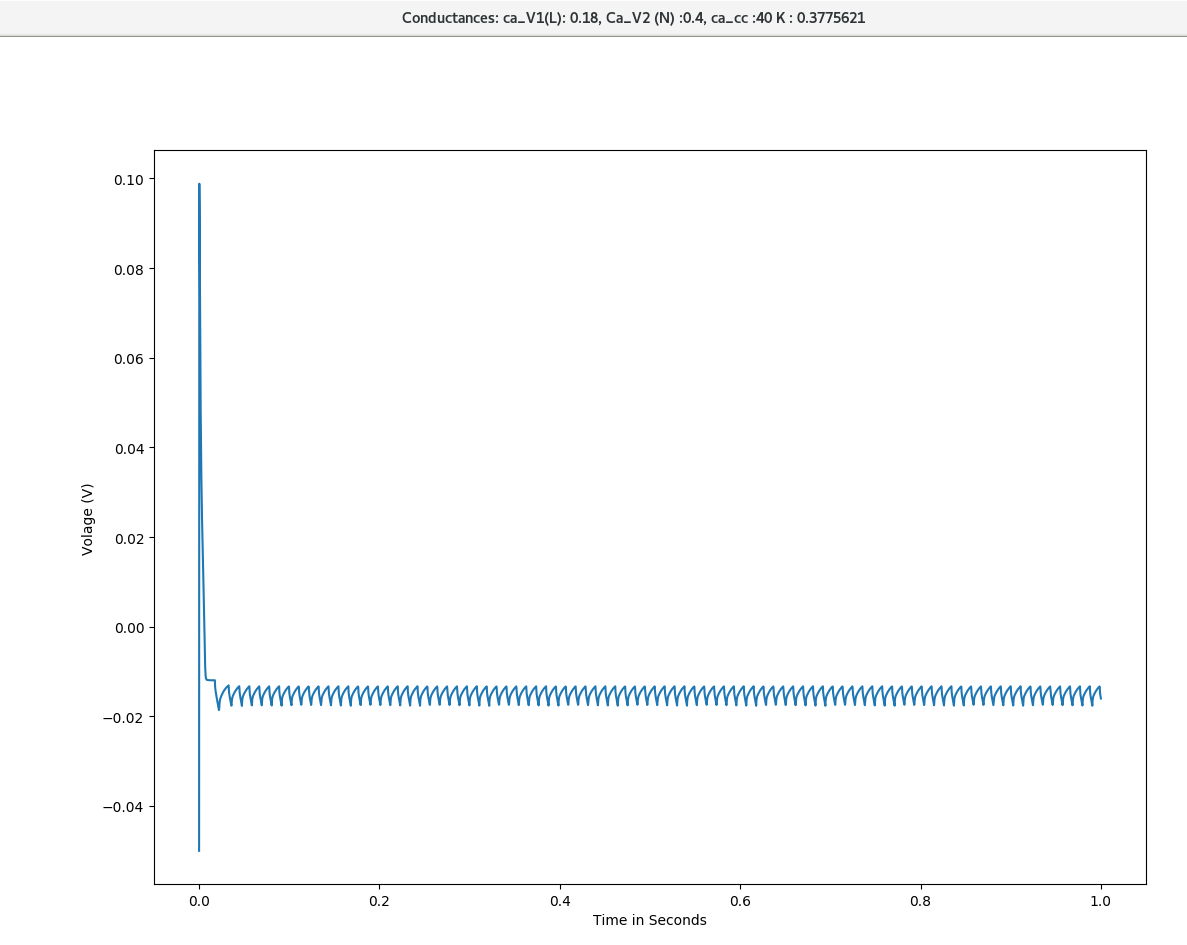
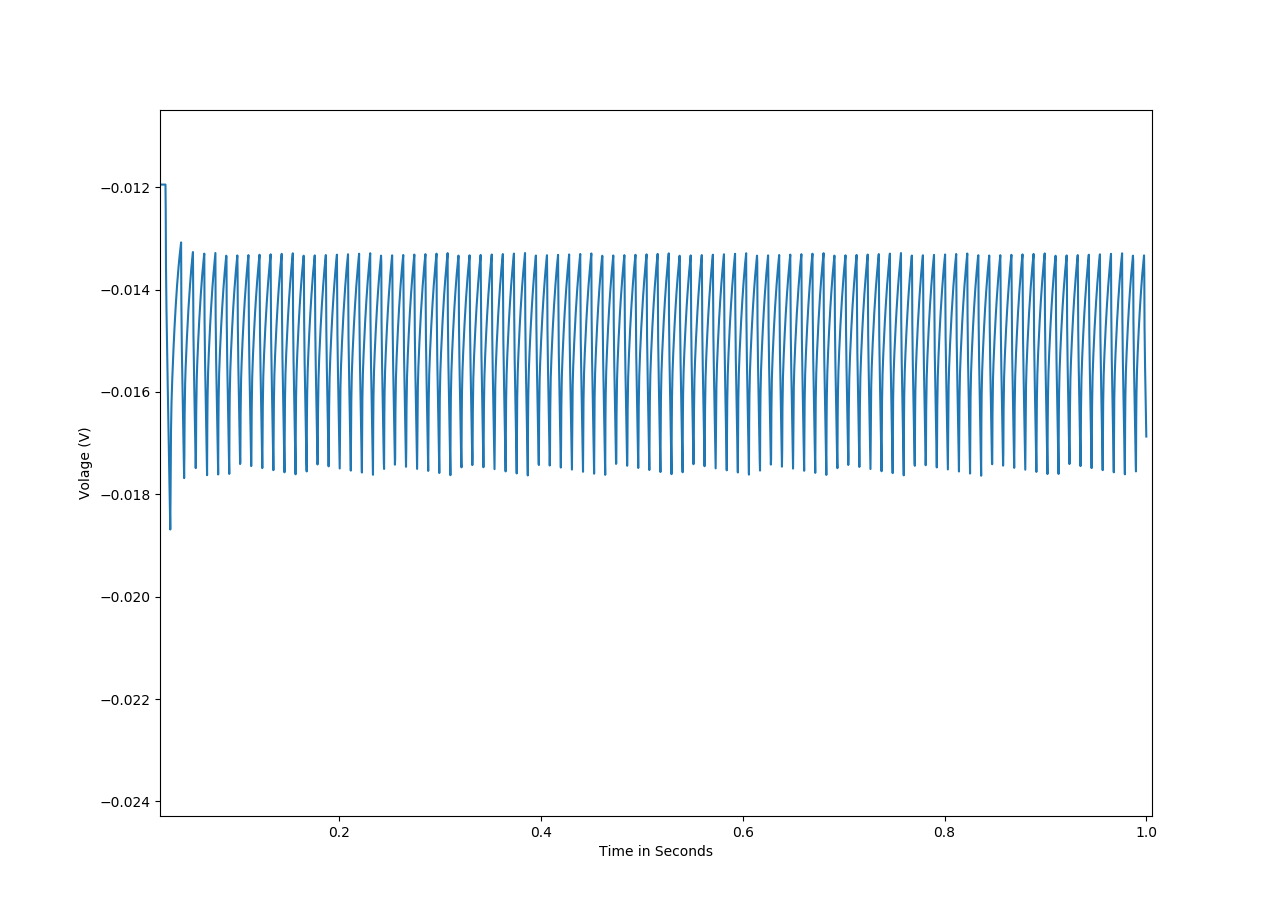
Code and images to submit. simple_model_chrp.py simple_model_p.py channels_p.py and channels_p_2.py Prepare paper with this as source code material.

diff --git a/NEUR634_homework/project/simple_model_p.py b/NEUR634_homework/project/simple_model_p.py
@@ -6,19 +6,20 @@
 import moose
 import numpy as np
 import matplotlib.pyplot as plt
-from utilities import create_comp_model
-from utilities import create_pulse_generator
-from utilities import create_output_table
-from utilities import plot_vm_table
-from utilities import create_set_of_channels
-from utilities import copy_connect_channel_moose_paths
+
+from utilities_p import create_output_table
+from utilities_p import plot_vm_table
+from utilities_p import create_set_of_channels
+from utilities_p import copy_connect_channel_moose_paths
 from utilities_p import create_ca_conc_pool
 from utilities_p import copy_ca_pools_moose_paths
 from utilities_p import connect_ca_pool_to_chan
 from channels_p import channel_settings
 from channels_p import ca_params
-from utilities import create_compartment
-from utilities import compute_comp_area
+from utilities_p import create_compartment
+from utilities_p import compute_comp_area
+
+
 
 VMIN = -90e-3
 VMAX = 120e-3
@@ -26,22 +27,6 @@ VDIVS = 3000
 CAMAX = 1
 CAMIN = 0
 CADIVS = 10E3
-
-def chirp(gen_name="chirp", amp=1, f0=1, f1=50, T=0.8, start=0.1, end=0.5, simdt=10E-5, phase=0, amp_offset=0):
-    chirper = moose.element('/chirpgen') if moose.exists('/chirpgen') else moose.Neutral('/chirpgen')
-    func_1 = moose.Func(chirper.path+'/'+gen_name)
-    func_1.mode = 3
-    func_1.expr = '{A}*cos(2*pi*({f1}-{f0})/{T}*x^2 + 2*pi*{f1}*x + {p})+{o}'.format(f0=f0, f1=f1, T=T, A=amp, p=phase, o=amp_offset)
-    input = moose.StimulusTable(chirper.path+'/xtab')
-    xarr = np.arange(start, end, simdt)
-    input.vector = xarr
-    input.startTime = 0.0
-    input.stepPosition = xarr[0]
-    input.stopTime = xarr[-1] - xarr[0]
-    moose.connect(input, 'output', func_1, 'xIn')
-    moose.useClock(0, '%s/##[TYPE=StimulusTable]' % (chirper.path), 'process')
-    moose.useClock(0,'%s/##[TYPE=Func]' % (chirper.path), 'process')
-    return func_1
 
 def simple_model(model_name, comp_passive, channel_settings, ca_params, length, diameter):
         # Simulation information.
@@ -104,7 +89,6 @@ def main(model_name, comp_passive, channel_settings, ca_params):
     # Simulation information.
     simtime = 1
     simdt = 0.25e-5
-    #simdt = 0.1e-6
     plotdt = 0.25e-3
 
     diameter = 20e-6
@@ -113,12 +97,9 @@ def main(model_name, comp_passive, channel_settings, ca_params):
 
     # Model creation
     soma, moose_paths = simple_model(model_name, comp_passive, channel_settings, ca_params, length, diameter)
-    # chirp_test = chirp(gen_name="chirp",amp=1E-9, f0=0.1, f1=500, T=0.8, start=inj_delay, end=inj_width+inj_delay, simdt=simdt,amp_offset=5E-9)
 
-    # moose.connect(chirp_test, 'valueOut', soma, 'injectMsg')
     # Output table
     tabs = creat_moose_tables()
-    # moose.connect(soma_i_table, 'requestOut', chirp_test, 'getValue')
 
     # Set moose simulation clocks
     for lable in range(7):
@@ -129,32 +110,11 @@ def main(model_name, comp_passive, channel_settings, ca_params):
     moose.reinit()
     moose.start(simtime)
 
-    # Plot output tables.
-    #v_plot = plot_vm_table(simtime,soma_v_table, soma_i_table, title="soma vs i")
-    #plt.grid(True)
-    #plt.legend(['v', 'i'])
-    #plt.show()
     from collections import namedtuple
     cond = namedtuple('cond', 'k Ltype Ntype cl')
     # Final execution test
-    # test_conductances = [cond(k=0.5E-3, Ltype=0.18E-3, Ntype=0.4E-3, cl=40E-3),  # control test
-    #                  cond(k=0.5E-3, Ltype=0.18E-3, Ntype=0, cl=40E-3),  # L-type frequecy reduce test
-    #                  cond(k=0.5E-3, Ltype=0, Ntype=0.4E-3, cl=40E-3),  # N-type amplitude reduce test
-    #                  cond(k=0.5E-3, Ltype=0.18E-3, Ntype=0.4E-3, cl=0),   # cl-type Current abolish test
-    #                  cond(k=0, Ltype=0.18E-3, Ntype=0.4E-3, cl=40E-3)    # K AHP reduce test
-    #                  ]
-    # Set to -15mv when cl current is blocked.
-    # test_conductances = [
-    #                  cond(k=0.5E-3*1E15, Ltype=0.18E-3, Ntype=0.4E-3, cl=0),   # cl-type Current abolish test
-    #                  ]
-    # Set to -15mv when cl current is blocked.
     test_conductances = [
-                #     cond(k=0.5E-3 * 0.5, Ltype=0.18E-6 * 10, Ntype=0.4E-5 * 11, cl=0),   # cl-type Current abolish test
-                     #cond(k=0.5E-3 , Ltype=0, Ntype=0.4E-5, cl=100E-3),   # cl-type Current abolish test
-                     # cond(k=0.5E-3, Ltype=0.18E-3, Ntype=0.4E-3, cl=40E-3),   # cl-type Current abolish test
-                     # cond(k=0.5, Ltype=0.18, Ntype=0.4, cl=40),   # cl-type Current abolish test
-                    # cond(k=0.5, Ltype=0.18, Ntype=0.4, cl=0),   # cl-type Current abolish test
-                     cond(k=0.3775621, Ltype=0.18, Ntype=0.4, cl=40),   # cl-type Current abolish test
+                     cond(k=0.3775621, Ltype=0.18, Ntype=0.4, cl=40),
                      ]
 
 
@@ -178,5 +138,5 @@ def main(model_name, comp_passive, channel_settings, ca_params):
 if __name__ == "__main__":
     model_name = 'soma'
     channel_settings = channel_settings
-    comp_passive = {'RM':1/(0.06), 'CM': 1,'RA':4, 'EM': -50e-3} # check with Dan????
+    comp_passive = {'RM':1/(0.06), 'CM': 1,'RA':4, 'EM': -50e-3}
     main(model_name, comp_passive, channel_settings, ca_params=ca_params)

diff --git a/NEUR634_homework/project/simple_model_chrp.py b/NEUR634_homework/project/simple_model_chrp.py
@@ -6,19 +6,19 @@
 import moose
 import numpy as np
 import matplotlib.pyplot as plt
-from utilities import create_comp_model
-from utilities import create_pulse_generator
-from utilities import create_output_table
-from utilities import plot_vm_table
-from utilities import create_set_of_channels
+from utilities_p import create_comp_model
+from utilities_p import create_pulse_generator
+from utilities_p import create_output_table
+from utilities_p import plot_vm_table
+from utilities_p import create_set_of_channels
 from channels_p_2 import channel_settings
 from channels_p_2 import ca_params
-from utilities import create_compartment
-from utilities import compute_comp_area
+from utilities_p import create_compartment
+from utilities_p import compute_comp_area
 from utilities_p import create_ca_conc_pool
 from utilities_p import copy_ca_pools_moose_paths
 from utilities_p import connect_ca_pool_to_chan
-from utilities import copy_connect_channel_moose_paths
+from utilities_p import copy_connect_channel_moose_paths
 
 EREST_ACT = -70e-3 #: Resting membrane potential ??? where in paper???
 VMIN = -30e-3 + EREST_ACT
@@ -111,14 +111,12 @@ def main(model_name, comp_passive, channel_settings, ca_params):
     length = 20e-6
 
     inj_delay = 20E-3
-    inj_amp = 5E-3 #0
-    inj_width = 500E-3
-
-
+    inj_amp = 0 # Pleace chirp amplitudes 2.5E-3 and 15E-3
+    inj_width = 1
 
     # Model creation
     soma, moose_paths = simple_model(model_name, comp_passive, channel_settings, ca_params, length, diameter)
-    chirp_test = chirp(gen_name="chirp",amp=inj_amp, f0=0.1, f1=20, T=0.1, start=inj_delay, end=inj_width+inj_delay, simdt=simdt,amp_offset=0)
+    chirp_test = chirp(gen_name="chirp",amp=inj_amp, f0=0.1, f1=40, T=1, start=inj_delay, end=inj_width+inj_delay, simdt=simdt,amp_offset=0)
     moose.connect(chirp_test, 'valueOut', soma, 'injectMsg')
     # Output table
     tabs = creat_moose_tables()
@@ -137,12 +135,7 @@ def main(model_name, comp_passive, channel_settings, ca_params):
     # set conductance for a list to Ca_v1, Ca_V2 and CC
     from collections import namedtuple
     cond = namedtuple('cond', 'k Ltype Ntype cl')
-    test_conductances = [cond(k=0.5, Ltype=0.18, Ntype=0.4, cl=40)]  # control test
-                         # cond(k=0.5E-3, Ltype=0.18E-3, Ntype=0, cl=40E-3),  # L-type frequecy reduce test
-                         # cond(k=0.5E-3, Ltype=0, Ntype=0.4E-3, cl=40E-3),  # N-type amplitude reduce test
-                         # cond(k=0.5E-3, Ltype=0.18E-3, Ntype=0.4E-3, cl=0),   # cl-type Current abolish test
-                         # cond(k=0.5E-3 * 0.2, Ltype=0.18E-3, Ntype=0.4E-3, cl=40E-3)    # K AHP reduce test
-                         # ]
+    test_conductances = [cond(k=0.3775621, Ltype=0.18, Ntype=0.4, cl=40),]
 
     for K, V1, V2, cc in test_conductances:
         moose.element('/soma/K').Gbar = K #* compute_comp_area(length, diameter)[0] *1E4
@@ -156,7 +149,10 @@ def main(model_name, comp_passive, channel_settings, ca_params):
         plt.show()
 
     # plot chirp signal
-    plt.plot(soma_c_table.vector)
+    t = np.arange(0, simtime, 1/len(soma_c_table.vector))
+    plt.plot(t, soma_c_table.vector)
+    plt.xlabel("time in seconds")
+    plt.ylabel("voltage (V)")
     plt.show()
 
     current_time_domain = soma_c_table.vector
@@ -168,37 +164,35 @@ def main(model_name, comp_passive, channel_settings, ca_params):
     voltage_magnitude = np.abs(voltage_fft)
     current_phase = np.angle(current_fft)
     voltage_phase = np.angle(voltage_fft)
-    freq_current = np.fft.fftfreq(len(current_fft), simdt)
-    freq_voltage = np.fft.fftfreq(len(voltage_fft), simdt)
-    plt.figure("chirp")
-    plt.subplot(211)
+    freq_current = np.fft.fftfreq(len(current_fft), 1/len(soma_c_table.vector))
+    freq_voltage = np.fft.fftfreq(len(voltage_fft), 1/len(soma_c_table.vector))
+    N = len(current_fft)
+    plt.figure("soma_current")
     plt.plot(freq_current, current_magnitude)
     plt.xlabel('Frequecy (Hz)')
     plt.ylabel('Magnitude (mA)')
-    plt.subplot(212)
+    plt.show()
+
+    plt.figure("membrane voltage")
     plt.plot(freq_voltage, voltage_magnitude)
     plt.xlabel('Frequecy (Hz)')
     plt.ylabel('Volts (V)')
-    plt.figure("membrane impedence")
-    plt.subplot(211)
+    plt.show()
+
+    plt.figure("membrane voltage")
     plt.plot(freq_voltage, voltage_magnitude/current_magnitude)
     plt.xlabel('Frequecy (Hz)')
     plt.ylabel('ohms ($\Omega$)')
+    plt.show()
+
     plt.title('membrance impedance')
-    plt.subplot(212)
     plt.plot(freq_voltage, voltage_phase - current_phase)
     plt.xlabel('Frequecy (Hz)')
     plt.ylabel('phase ($\Theta$)')
     plt.show()
 
-    # from moose_nerp.graph import plot_channel
-    # for channel in channel_settings:
-    #     libchan=moose.element('/library/soma/'+channel)
-    #     plot_channel.plot_gate_params(libchan,1,VMIN, VMAX, CAMIN, CAMAX)
-    # plt.show()
-
 if __name__ == "__main__":
     model_name = 'soma'
     channel_settings = channel_settings
-    comp_passive = {'RM':1/(0.06), 'CM': 1,'RA':4, 'EM': -50e-3} # check with Dan????
+    comp_passive = {'RM':1/(0.06), 'CM': 1,'RA':4, 'EM': -50e-3}
     main(model_name, comp_passive, channel_settings, ca_params=ca_params)

diff --git a/NEUR634_homework/project/channels_p_2.py b/NEUR634_homework/project/channels_p_2.py
@@ -4,6 +4,7 @@ from templates import channel_param_template
 from templates import capools
 from templates import CaDepparams
 
+# Old parameters used to setup alpha and beta parameters.
 K_n_params = AlphaBetaparams(
               A_A=1000, A_B=0.0, A_C=1.0, A_D=20E-3, A_F=-4e-3,
               B_A=1000, B_B=0.0, B_C=1.0, B_D=20E-3, B_F=4e-3)
@@ -16,42 +17,77 @@ ca_v2_params = AlphaBetaparams(
               A_A=1000, A_B=0.0, A_C=1.0, A_D=-10E-3, A_F=-15e-3,
               B_A=1000, B_B=0.0, B_C=1.0, B_D=-10E-3, B_F=15e-3)
 
-ca_cc_params = CaDepparams(kd=1E-3, power=2, tau=0.68E-2)
+ca_cc_params = CaDepparams(kd=1E-3, power=2, tau=0.68E-2) # After discussion.
+#Where is Kd, power and tau??
 ca_params = capools(caBasal=0, caThick=0.1E-6, caTau=20E-3, bufCapacity=10E4, caName='CaPool') #0.99E12
 ### ca_params = capools(caBasal=0, caThick=0.1E-6, caTau=20E-3, bufCapacity=10E4, caName='CaPool') #0.99E12 oscillation
+# CaThick, cabasal and tau of ca_cc leave default.
+# Tp = 200 ms, ka = 1000 uM, buf=0.6
+
+EREST_ACT = -70E-3
+Na_m_params = AlphaBetaparams(A_A=9738.024807333182,
+ A_B=0.0,
+ A_C=1,
+ A_D=0.04155939062329942,
+ A_F=-0.005,
+ B_A=9738.024807333182,
+ B_B=0.0,
+ B_C=1,
+ B_D=0.04155939062329942,
+ B_F=0.005)
+
+Na_h_params = AlphaBetaparams(A_A=2434.5062018332956,
+ A_B=0.0,
+ A_C=1,
+ A_D=0.07755939062329942,
+ A_F=0.009,
+ B_A=2434.5062018332956,
+ B_B=0.0,
+ B_C=1,
+ B_D=0.037559390623299424,
+ B_F=-0.005)
 
 k_chan = copy(channel_param_template)
 ca_v1_chan = copy(channel_param_template)
 ca_v2_chan = copy(channel_param_template)
 ca_cc_chan = copy(channel_param_template)
+Na_chan = copy(channel_param_template)
 
 k_chan['chan_name'] = 'K'
 k_chan['x_params'] = K_n_params
 k_chan['x_pow'] = 4
-k_chan['g_max'] = 0.5e-3 * 1/1E4 # This value is overridden in the main program.
+k_chan['g_max'] = 0.5e-3 * 1/1E4 # was 0
 k_chan['e_k'] = -90E-3
 
 ca_v1_chan['chan_name'] = 'Ca_V1'
 ca_v1_chan['x_params'] = ca_v1_params
 ca_v1_chan['x_pow'] = 1
-ca_v1_chan['g_max'] = 0.18E-3 * 1/1E4 # This value is overridden in the main program.
+ca_v1_chan['g_max'] = 0.18E-3 * 1/1E4
 ca_v1_chan['e_k'] = 100E-3
 ca_v1_chan['chan_type'] = 'ca_permeable'
 
 ca_v2_chan['chan_name'] = 'Ca_V2'
 ca_v2_chan['x_params'] = ca_v2_params
 ca_v2_chan['x_pow'] = 1
-ca_v2_chan['g_max'] = 0.4E-3 * 1/1E4 # This value is overridden in the main program.
+ca_v2_chan['g_max'] = 0.4E-3  * 1/1E4
 ca_v2_chan['e_k'] = 100E-3
 ca_v2_chan['chan_type'] = 'ca_permeable'
 
 ca_cc_chan['chan_name'] = 'ca_cc'
 ca_cc_chan['z_params'] = ca_cc_params
 ca_cc_chan['z_pow'] = 1
-ca_cc_chan['g_max'] = 40E-3  * 1/1E4 # This value is overridden in the main program.
+ca_cc_chan['g_max'] = 40E-3  * 1/1E4 # In paper that is a typo gL instead of gCl.
 ca_cc_chan['e_k'] = -70E-3
 ca_cc_chan['chan_type'] = 'ca_dependent'
 
-channel_settings = [k_chan, ca_v1_chan, ca_v2_chan, ca_cc_chan]
+Na_chan['chan_name'] = 'Na'
+Na_chan['x_params'] = Na_m_params
+Na_chan['y_params'] = Na_h_params
+Na_chan['x_pow'] = 3
+Na_chan['y_pow'] = 1
+Na_chan['g_max'] = 120E-3
+Na_chan['e_k'] = 45E-3
+
+channel_settings = [k_chan, ca_v1_chan, ca_v2_chan, ca_cc_chan, Na_chan]
 
 channel_settings = {chan.get('chan_name'): chan for chan in channel_settings}

diff --git a/NEUR634_homework/project/utilities_p.py b/NEUR634_homework/project/utilities_p.py
@@ -80,9 +80,9 @@ def compute_comp_area(comp_diameter, comp_length):
 
 def set_comp_values(comp, RM, CM, RA, initVM, ELEAK):
     curved_sa, x_area = compute_comp_area(comp.diameter, comp.length)
-    comp.Rm = RM #/ curved_sa
-    comp.Cm = CM #* curved_sa
-    comp.Ra = RA #* comp.length / x_area
+    comp.Rm = RM / curved_sa
+    comp.Cm = CM * curved_sa
+    comp.Ra = RA * comp.length / x_area
     comp.initVm = initVM
     comp.Em = ELEAK
     return comp
@@ -121,25 +121,7 @@ def create_channel(ntype, chan_name, vdivs, vmin, vmax, cadivs, camin, camax,
     if zpow: # GateZ
         chan_comp.Zpower = zpow
         create_conc_dependent_z_gate(chan_comp, z_params, cadivs, camin, camax)
-    return chan_comp
-
-def create_channel2(ntype, chan_name, vdivs, vmin, vmax, cadivs, camin, camax,
-                   x_params, xpow, tick=-1, y_params=None, ypow=0, zpow=0, z_params=None):
-    lib =  moose.Neutral('/library') if not moose.exists('/library') else moose.element('/library')
-    typelib = moose.Neutral(lib.path+'/'+ntype) if not moose.exists(lib.path+'/'+ntype) else moose.element(lib.path+'/'+ntype)
-    chan_comp = moose.HHChannel(typelib.path + '/' + chan_name)
-    chan_comp.tick = tick
-    if xpow: # GateX
-        chan_comp.Xpower = xpow
-        params = x_params + (vdivs, vmin, vmax)
-        moose.element(chan_comp.path + '/gateX').setupTau(list(params))
-    if ypow: # GateY
-        chan_comp.Ypower = ypow
-        params = y_params + (vdivs, vmin, vmax)
-        moose.element(chan_comp.path + '/gateY').setupTau(list(params))
-    if zpow: # GateZ
-        chan_comp.Zpower = zpow
-        create_conc_dependent_z_gate(chan_comp, z_params, cadivs, camin, camax)
+    #chan_comp.instant=1
     return chan_comp
 
 def create_conc_dependent_z_gate(chan, params, cadivs, camin, camax):
@@ -170,7 +152,7 @@ def set_channel_conductance(chan, gbar, E_nerst, comp=None):
     if comp is None:
         chan.Gbar = gbar
     else:
-        chan.Gbar = gbar * compute_comp_area(comp.length, comp.diameter)[0] *1E4
+        chan.Gbar = gbar #* compute_comp_area(comp.length, comp.diameter)[0] * 1E4
     return chan
 
 def create_set_of_channels(ntype, channel_settings, vdivs, vmin, vmax, cadivs, camin, camax):
